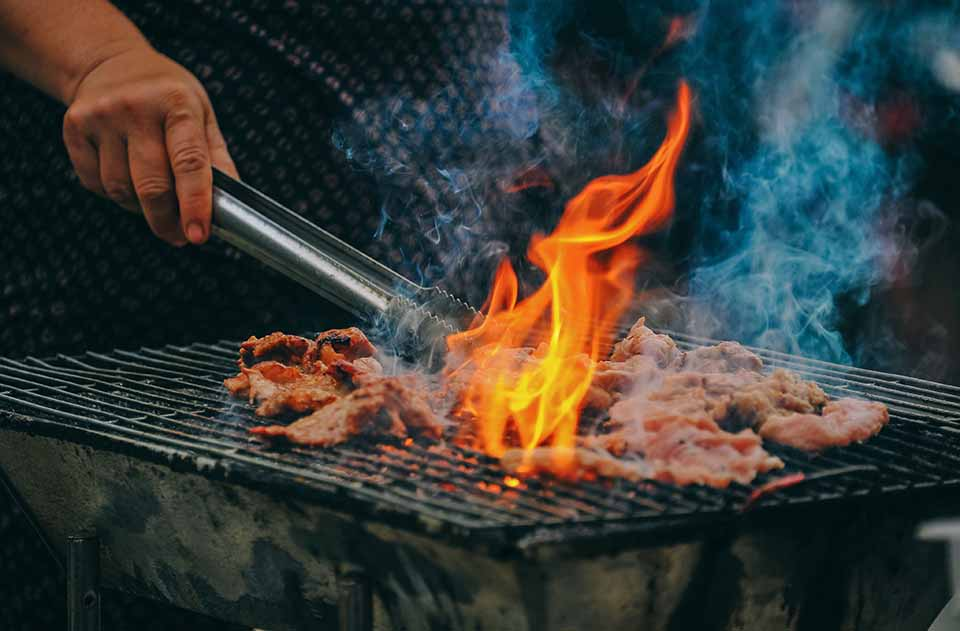
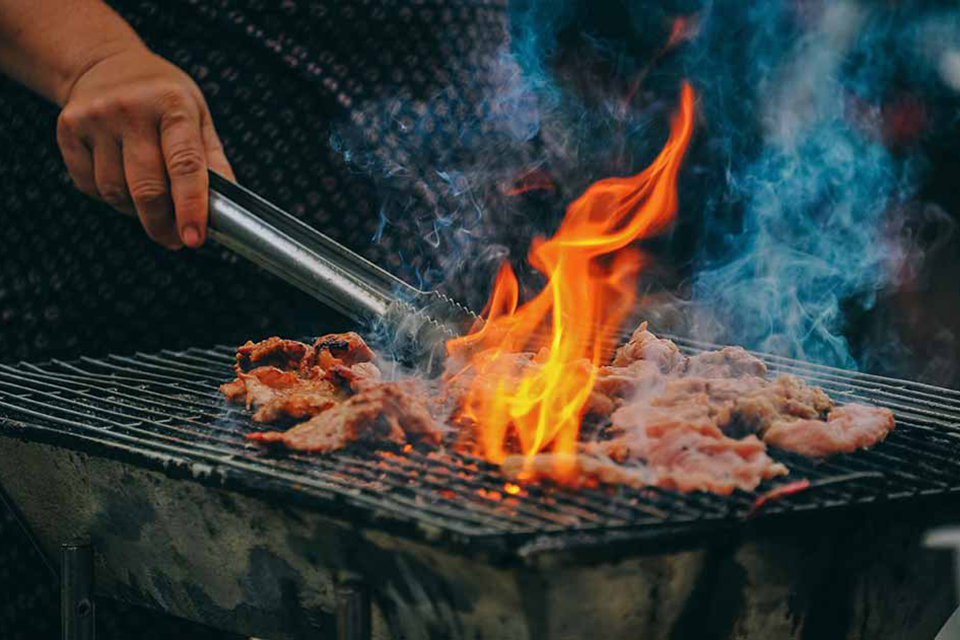
Fix aspect ratio on gallery images

diff --git a/gallery.html b/gallery.html
@@ -58,7 +58,7 @@
         <section class="blurb">
             <h2>Check out our pictures</h2>
             <p>
-                Here are some of our favourite photos of our food, restaurant and staff. We had so many to choose from but just couldn't fit them all in. If you want to more photos like these then be sure to follow us on social media.
+                Here are some of our favourite photos of our food, restaurant and staff. We had so many to choose from but just couldn't fit them all in. If you want to more photos like these then be sure to follow us on <a href="#facebook">social media</a>.
             </p>
         </section>
         <div id="gallery">

diff --git a/README.md b/README.md
@@ -381,6 +381,14 @@ The website has also been tested in the following browsers.
 | Specials panel | Navigate to menu page and locate specials panel | Specials panel clearly describes the menu item and illustrates it with its image | Works as expected |
 | Gallery page | Navigate to gallery page | Images clearly display the type of food served | Works as expected |
 
+<details><summary>Screenshots</summary>
+<img src="docs/testing/testing_1_1.jpg">
+<img src="docs/testing/testing_1_2.jpg">
+<img src="docs/testing/testing_1_3.jpg">
+<img src="docs/testing/testing_1_4.jpg">
+<img src="docs/testing/testing_1_5.jpg">
+</details>
+
 2. As a first time user I want to know the prices on the food
 
 | **Feature** | **Action** | **Expected Result** | **Actual Result** |
@@ -428,6 +436,7 @@ The website has also been tested in the following browsers.
 | **Feature** | **Action** | **Expected Result** | **Actual Result** |
 |-------------|------------|---------------------|-------------------|
 | Footer | Navigate to the any page, scroll to bottom of page | Links bring user to social media page where they can follow restaurant | Works as expected |
+| Blurb | Navigate to gallery page, scroll to blurb and click social media link | Link brings you to footer social media links | Works as expected |
 
 10. As a returning user I want to know how to contact the restaurant
 
